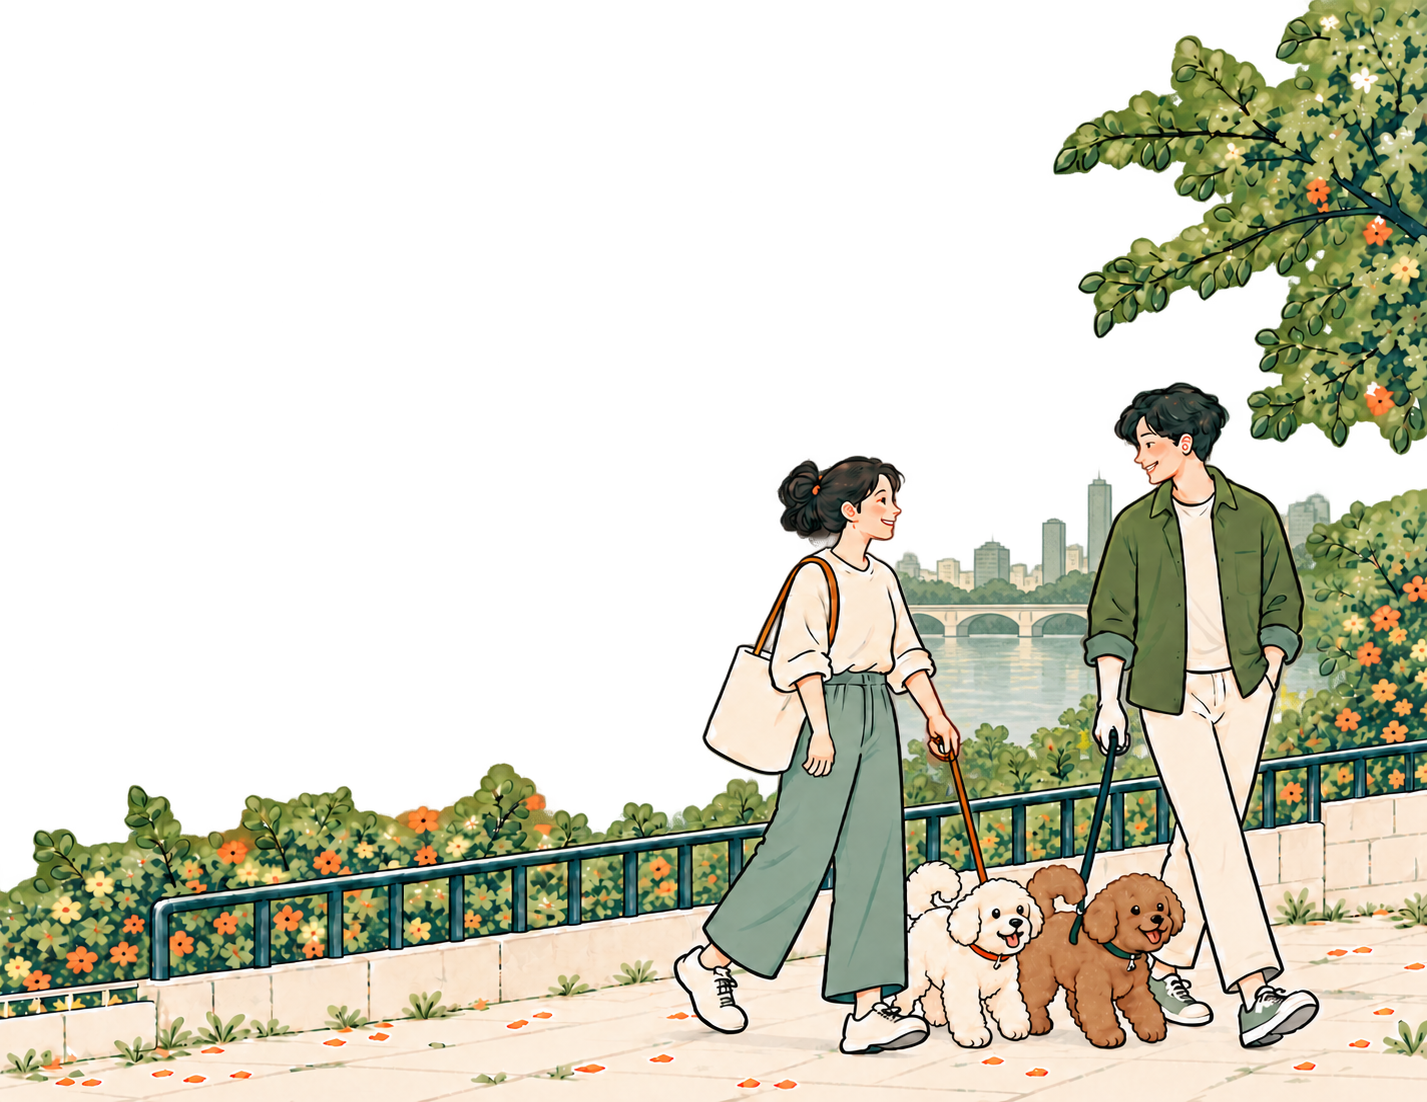
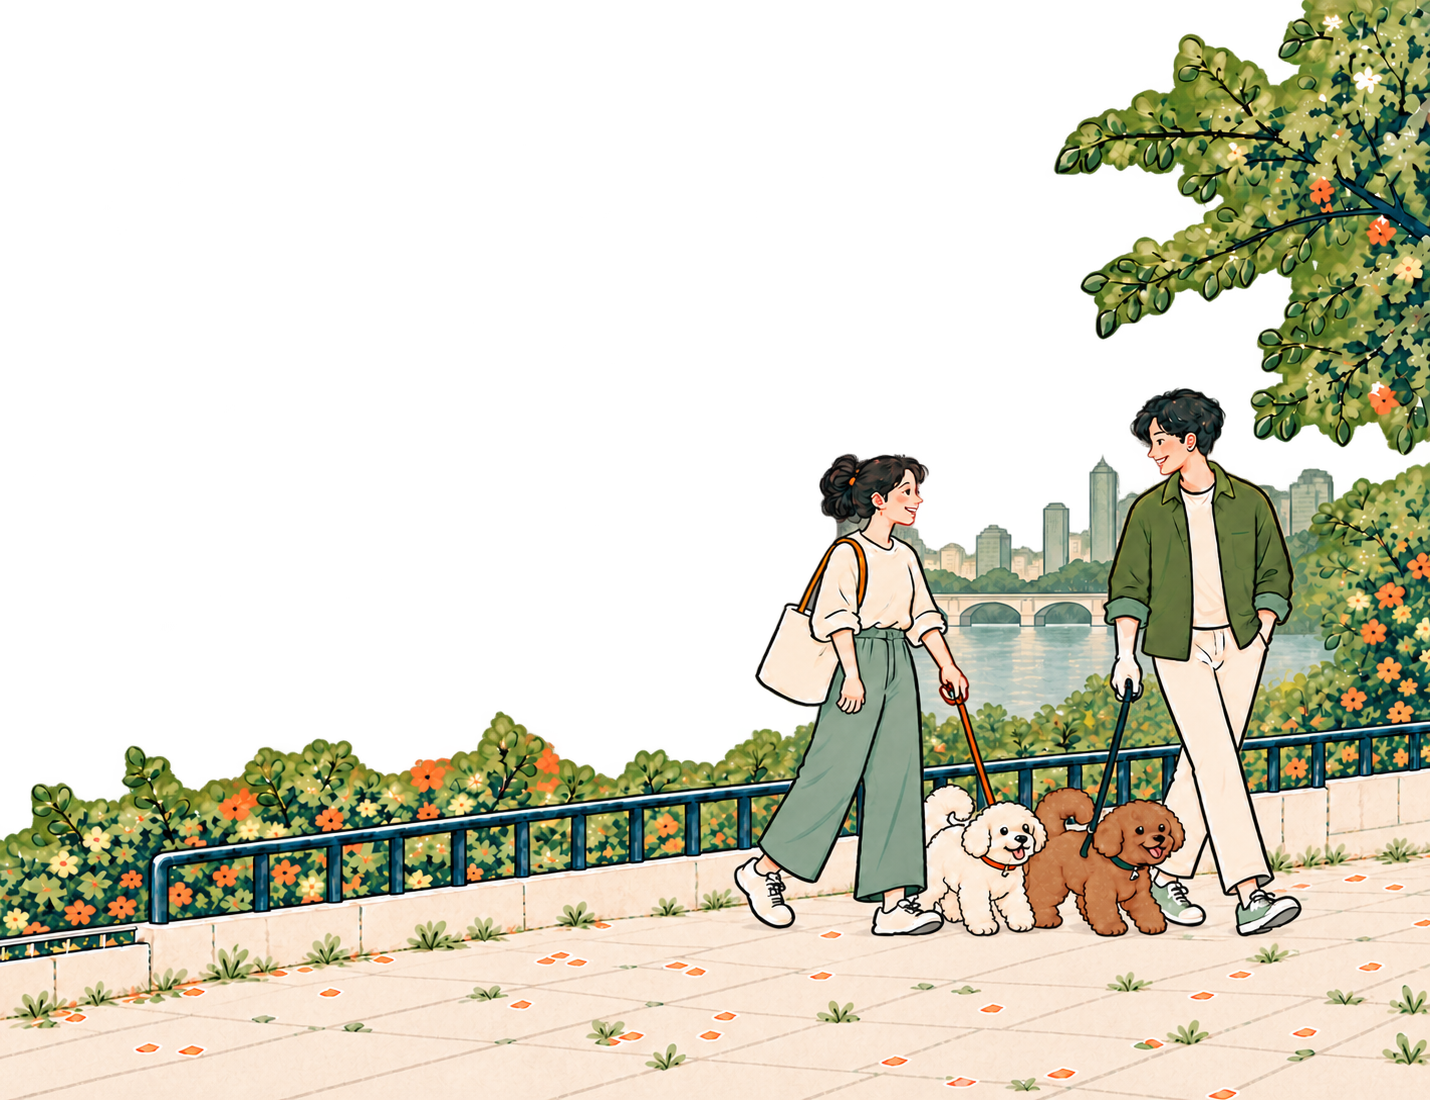
Use the redrawn login scene, a wall-free walker for the walk request heading and a phone living room on my dogs

Changed region(s): [[0.0, 0.0, 1.0, 1.0]]

diff --git a/web/app/dogs/page.tsx b/web/app/dogs/page.tsx
@@ -1,14 +1,15 @@
 "use client";
 
-import Image from "next/image";
 import Link from "next/link";
 import { AuthGate } from "../_components/auth-gate";
 import { DogCard } from "../_components/dog-card";
 import headingStyles from "../_components/heading.module.css";
 import { PlusIcon } from "../_components/icons";
 import layoutStyles from "../_components/layout.module.css";
+import { SceneImage } from "../_components/walk-scene";
 import { useDeleteDog, useMyDogs } from "../../lib/api/dogs";
 import type { Dog } from "../../lib/types";
+import livingRoomMobile from "../../public/illustrations/walking-drawing/living-room-mobile.png";
 import livingRoom from "../../public/illustrations/walking-drawing/living-room.png";
 import styles from "./dogs.module.css";
 
@@ -33,11 +34,13 @@ const DogsPage = () => {
       <AuthGate>
         <DogList />
       </AuthGate>
-      <Image
+      <SceneImage
         className={styles.livingRoom}
-        src={livingRoom}
-        alt=""
-        sizes="(max-width: 720px) 210vw, (max-width: 1170px) 100vw, 1170px"
+        wide={livingRoom}
+        narrow={livingRoomMobile}
+        narrowMedia="(max-width: 720px)"
+        wideSizes="(max-width: 1170px) 100vw, 1170px"
+        loading="lazy"
       />
     </main>
   );

diff --git a/web/app/walk-requests/walk-requests.module.css b/web/app/walk-requests/walk-requests.module.css
@@ -10,20 +10,19 @@
 
 /* Leaves room for the drawing on tablets. */
 .head > p {
-  max-width: calc(100% - 400px);
+  max-width: calc(100% - 460px);
 }
 
-/* The crouching walker stands on the "받은 요청" bar, right of the title. Her
-   empty sky reaches up over the header, so it lets clicks through. */
+/* The crouching walker stands on the "받은 요청" bar, right of the title, and
+   the grass ends line up with the bar's ends. Her empty sky reaches up over
+   the header, so it lets clicks through. */
 .head > img {
   position: absolute;
-  right: -27px;
-  bottom: -59px;
-  width: 440px;
+  right: -51px;
+  bottom: -46px;
+  width: 553px;
   height: auto;
   pointer-events: none;
-  /* The wall is cut at the edge of the drawing, so it fades out instead. */
-  mask-image: linear-gradient(to left, transparent, black 15%);
 }
 
 .box {
@@ -214,11 +213,10 @@
     max-width: 185px;
   }
 
-  /* Past the right gutter, so the bushes start after the lead. */
   .head > img {
     right: -40px;
-    bottom: -24px;
-    width: 230px;
+    bottom: -18px;
+    width: 290px;
   }
 
   .box > h2 {

diff --git a/web/app/walk-requests/page.tsx b/web/app/walk-requests/page.tsx
@@ -7,7 +7,7 @@ import {
   useWalkRequests,
 } from "../../lib/api/walk-requests";
 import type { WalkRequest } from "../../lib/types";
-import crouchPet from "../../public/illustrations/walking-drawing/crouch-pet.png";
+import crouchPetHeader from "../../public/illustrations/walking-drawing/crouch-pet-header.png";
 import { AuthGate } from "../_components/auth-gate";
 import { DogFace, genderLabels, sizeLabels } from "../_components/dog-card";
 import headingStyles from "../_components/heading.module.css";
@@ -32,9 +32,9 @@ const WalkRequestsPage = () => {
           주변의 반려인과 산책을 요청하고, 받은 요청을 확인할 수 있어요.
         </p>
         <Image
-          src={crouchPet}
+          src={crouchPetHeader}
           alt=""
-          sizes="(max-width: 720px) 230px, 440px"
+          sizes="(max-width: 720px) 290px, 553px"
           loading="eager"
         />
       </div>

diff --git a/web/app/dogs/dogs.module.css b/web/app/dogs/dogs.module.css
@@ -135,13 +135,10 @@
 }
 
 /* The dogs lie on the rug under the list, across the 1170px mockup. Phones
-   crop the room to the rug so the dogs stay large. */
+   get a narrower room with the same plant, dogs and chair. */
 .livingRoom {
-  justify-self: stretch;
-  width: auto;
   /* Wider than the content column without widening it. */
   min-width: 0;
-  height: auto;
   margin: -16px calc(50% - min(50vw, 585px)) -56px;
 }
 
@@ -324,9 +321,7 @@
 
 @media (max-width: 720px) {
   .livingRoom {
-    aspect-ratio: 390 / 170;
     margin-bottom: -80px;
-    object-fit: cover;
   }
 
   .head {

diff --git a/web/app/_components/walk-scene.module.css b/web/app/_components/walk-scene.module.css
@@ -17,9 +17,9 @@
   margin: 0 auto;
 }
 
-/* Zero specificity, so a page class can move the drawing whatever order the
-   style sheets load in. */
-:where(.scene) {
+/* The band under a ScenePage's content. Zero specificity, so a page class can
+   move the drawing whatever order the style sheets load in. */
+:where(.page > .scene) {
   grid-area: 2 / 1;
   /* The transparent sky of the drawing slides up behind the content. */
   margin-top: -48px;
@@ -36,7 +36,7 @@
 }
 
 @media (max-width: 720px) {
-  :where(.scene) {
+  :where(.page > .scene) {
     margin-top: 16px;
   }
 }
